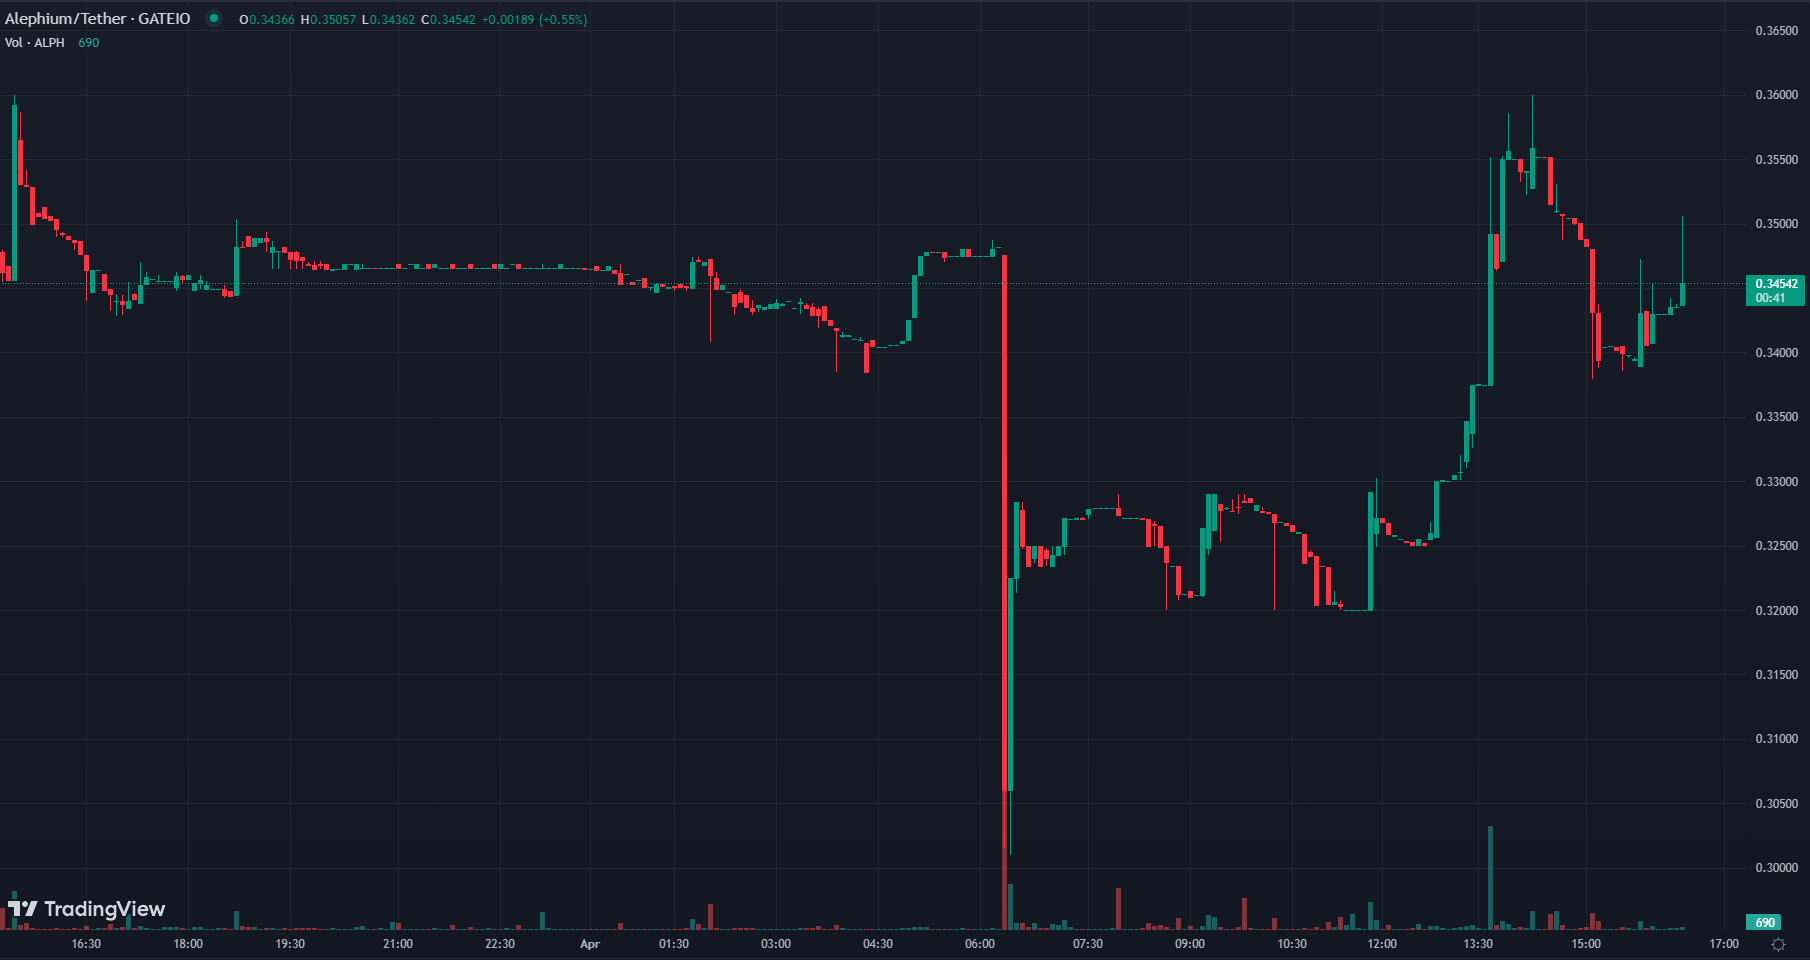
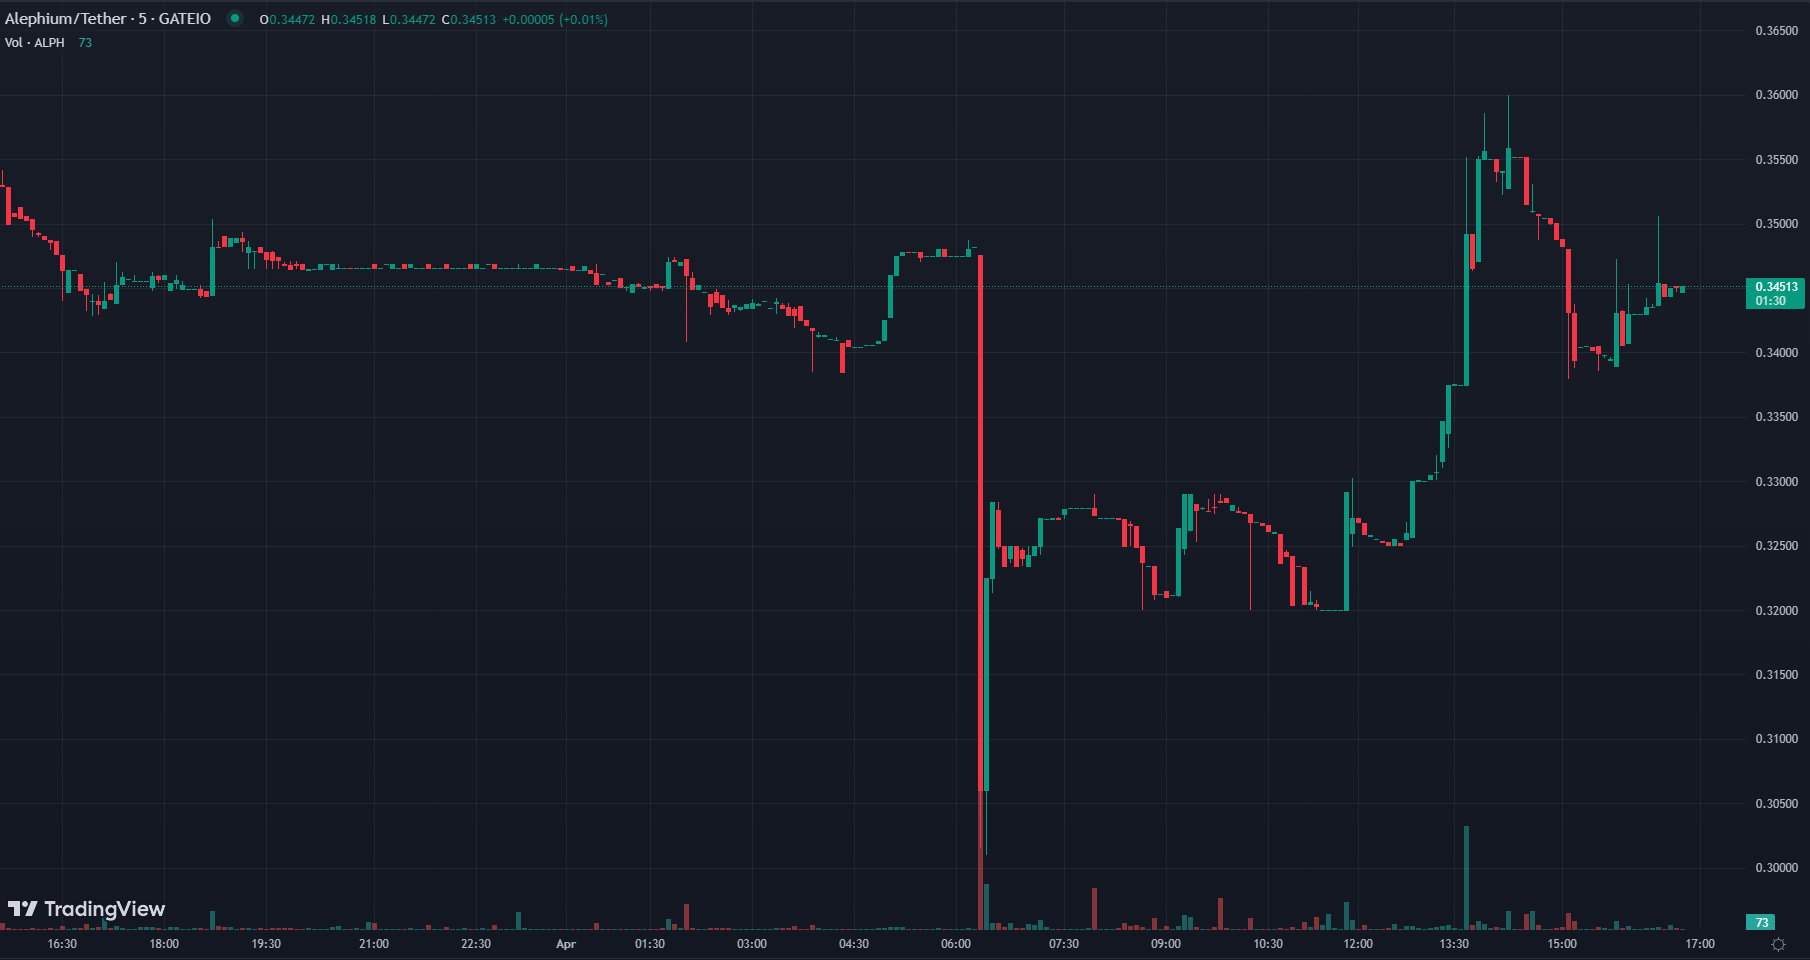
added command chart

diff --git a/src/app.js b/src/app.js
@@ -47,7 +47,6 @@ const getMarketData = async () => {
   }
 };
 
-const reservedSupply = async () => {};
 const getCoinData = async (long = false) => {
   try {
     // GET MARKET DATA FROM COINGECKO
@@ -101,27 +100,42 @@ const getCoinData = async (long = false) => {
   }
 };
 
-const bot = new Telegraf(process.env.TOKEN_TEST);
+const bot = new Telegraf(process.env.TOKEN);
 
 // short price
 bot.command("p", async (ctx) => {
   const coinData = await getCoinData();
-
-  // Explicit usage
-  // await ctx.telegram.sendMessage(ctx.message.chat.id, coinData);
-
-  // Using context shortcut
   await ctx.sendMessage(coinData);
 });
 // long price
 bot.command("plong", async (ctx) => {
   const coinData = await getCoinData(true);
-
-  // Explicit usage
-  // await ctx.telegram.sendMessage(ctx.message.chat.id, coinData);
-
-  // Using context shortcut
   await ctx.sendMessage(coinData);
+});
+// charts
+startFetchingCharts();
+bot.command("chart", async (ctx) => {
+  const [interval, ...rest] = ctx.message.text.split(" ").slice(1);
+  switch (interval) {
+    case "5m":
+      respondWithChart(ctx, interval);
+      break;
+    case "15m":
+      respondWithChart(ctx, interval);
+      break;
+    case "1h":
+      respondWithChart(ctx, interval);
+      break;
+    case "4h":
+      respondWithChart(ctx, interval);
+      break;
+    case "1d":
+      respondWithChart(ctx, interval);
+      break;
+    default:
+      await ctx.sendMessage(`Options: 5m, 15m, 1h, 4h, 1d\nexample: /chart 5m`);
+      break;
+  }
 });
 
 bot.launch();

diff --git a/src/helpers/chartHelpers.js b/src/helpers/chartHelpers.js
@@ -7,7 +7,7 @@ import { StopWatch } from "./stopWatch.js";
 export const respondWithChart = async (ctx, interval) => {
   const imgName = interval.includes("m") ? interval : interval.toUpperCase();
   try {
-    const image = fs.readFileSync(`.src/chartImgs/${imgName}.png`);
+    const image = fs.readFileSync(`./src/chartImgs/${imgName}.png`);
     await ctx.replyWithPhoto(
       {
         source: image,

diff --git a/src/helpers/screenshot.js b/src/helpers/screenshot.js
@@ -45,7 +45,7 @@ export const getIntervalChart = async (browser, interval, index) => {
   const height = 1080 - 120,
     width = 1920 - 110;
   await page.screenshot({
-    path: `.src/chartImgs/${imgName}.png`,
+    path: `./src/chartImgs/${imgName}.png`,
     clip: { height: height, width: width, x: x, y: y },
   });
 
